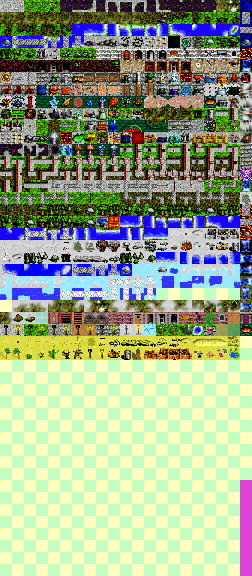
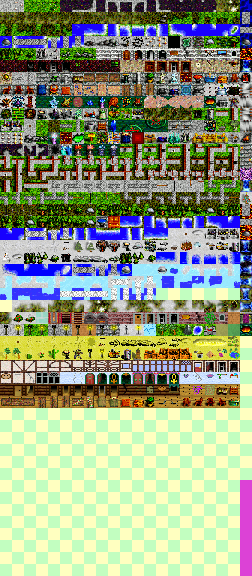
Three new wallsets and one new floorset by ADoS

Changed region(s): [[0.0, 0.625, 0.9722, 0.7188]]

diff --git a/src/scenedit/scen.keydlgs.cpp b/src/scenedit/scen.keydlgs.cpp
@@ -167,7 +167,7 @@ pic_num_t choose_graphic(short cur_choice,ePicType g_type,cDialog* parent) {
 	size_t total_pics = 0;
 	cPictChoice* pic_dlg = nullptr;
 	switch(g_type + PIC_PRESET) {
-		case PIC_TER: total_pics = 600; break;
+		case PIC_TER: total_pics = 680; break;
 		case PIC_TER_ANIM: total_pics = 28; break;
 		case PIC_DLOG: total_pics = 44; break;
 		case PIC_TALK: total_pics = 84; break;

diff --git a/src/tools/graphtool.hpp b/src/tools/graphtool.hpp
@@ -21,7 +21,7 @@
 namespace fs = boost::filesystem;
 
 #define LINES_IN_TEXT_WIN	11
-#define NUM_TER_SHEETS		12
+#define NUM_TER_SHEETS		14
 #define NUM_MONST_SHEETS	10
 
 struct m_pic_index_t {

diff --git a/rsrc/graphics/CREDITS.md b/rsrc/graphics/CREDITS.md
@@ -69,7 +69,7 @@ are by ADoS, and the rest are by Mistb0rn.
 - ter9.png is entirely by ADoS (some based on original BoE graphics).
 - On ter10.png, the base ice tiles (graphics 1 and 2) are by Mistb0rn and the rest is by
 ADoS (based on those tiles and original BoE graphics) with some tweaks by Celtic Minstrel.
-- ter11.png and ter12.png are entirely by ADoS.
+- ter11.png, ter12.png, ter13.png, and ter14.png are entirely by ADoS.
 - On teranim.png, graphic 15 is by Mistb0rn and graphic 16 is by ADoS.
 - termap.png currently just contains directly shrunken versions of the other sheets.
 
